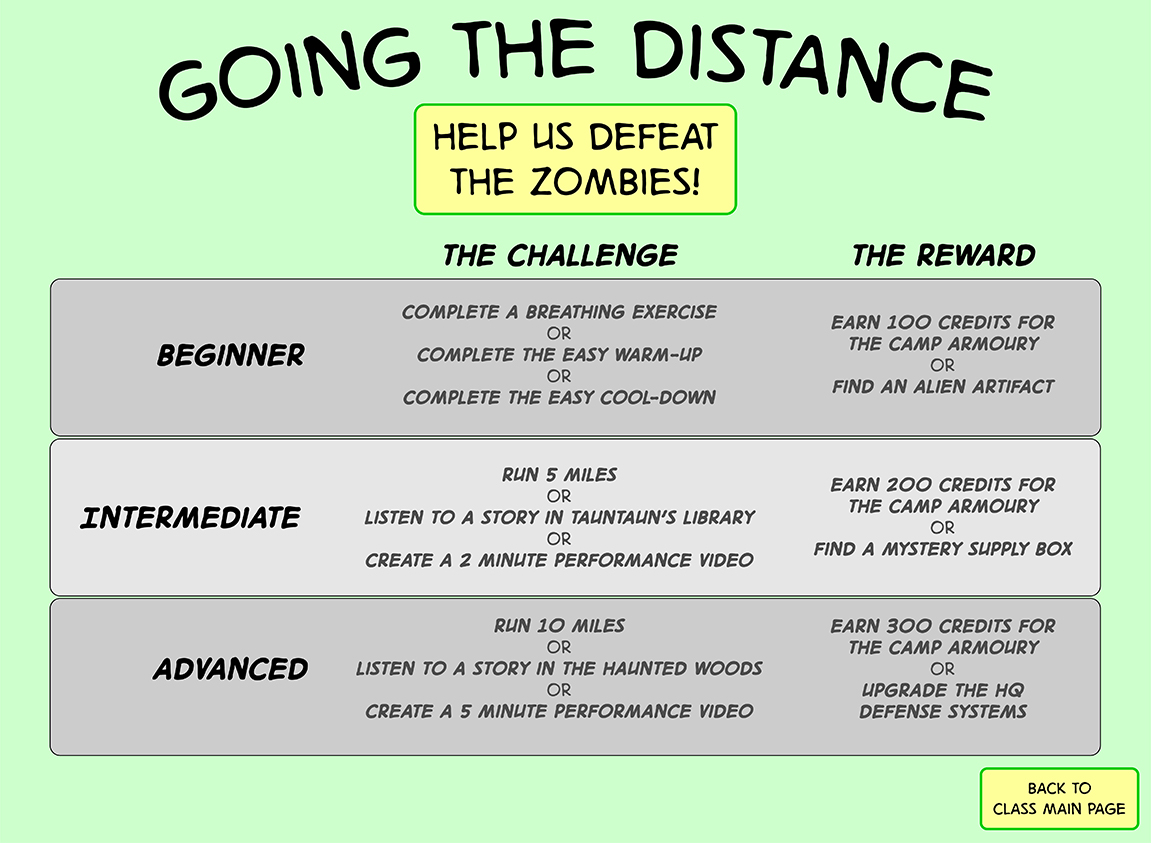
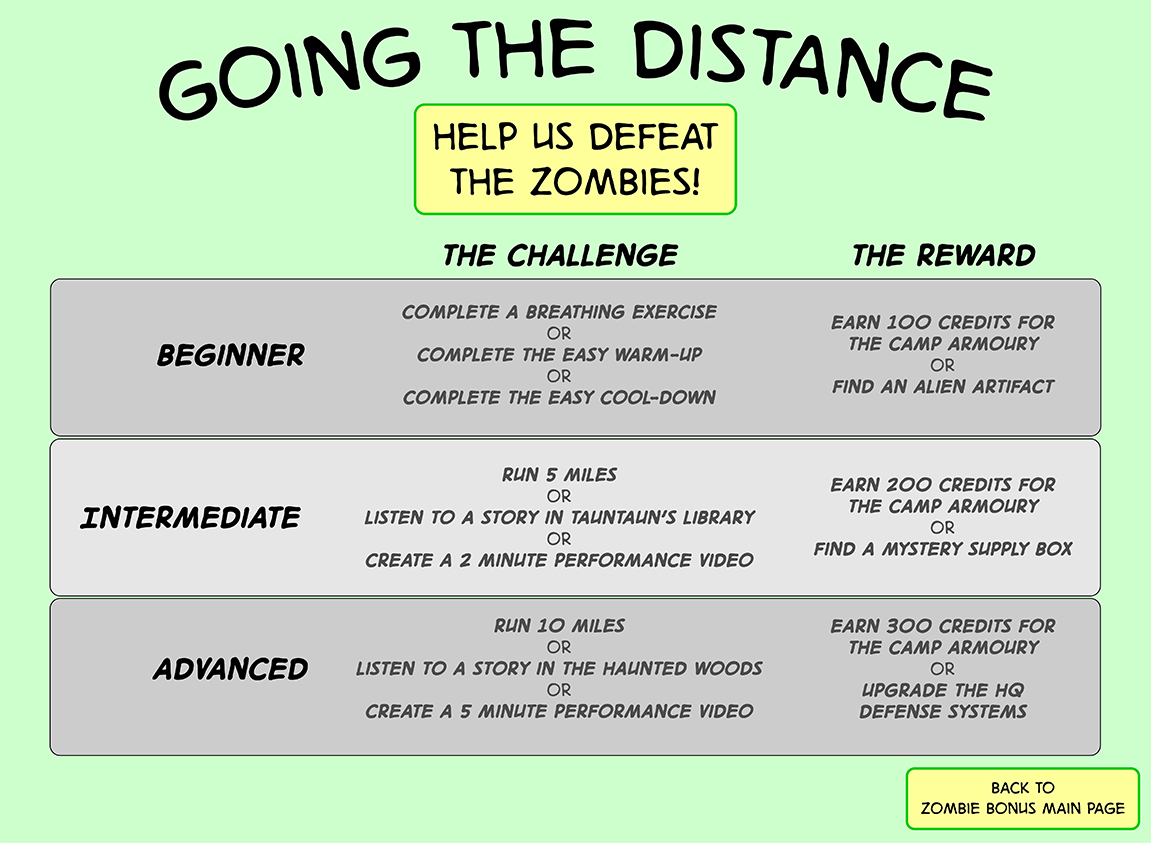
updated link back to zombie bonus page

Changed region(s): [[0.7602, 0.8944, 1.0, 0.987]]

diff --git a/classroom_tauntaun_zombieBonus.html b/classroom_tauntaun_zombieBonus.html
@@ -18,7 +18,7 @@
     <area target="" alt="Easy Cool Down" title="Easy Cool Down" class="lightwindow" params="lightwindow_width=960,lightwindow_height=540" href="https://dl.dropbox.com/s/viukriq3vwe407a/tauntaun_coolDownEasy.mp4" coords="402,386,720,407" shape="rect">
     <area target="" alt="Library" title="Library" href="https://aicl2020.github.io/classroom_tauntaun_library.html" coords="358,505,758,527" shape="rect">
     <area target="" alt="Woods" title="Woods" href="" coords="354,658,767,678" shape="rect">
-    <area target="" alt="Back to Zombies" title="Back to Zombies" href="https://aicl2020.github.io/classroom_tauntaun_zombies.html" coords="976,767,1140,830" shape="rect">
+    <area target="" alt="Back to Zombies" title="Back to Zombies" href="https://aicl2020.github.io/classroom_tauntaun_zombies.html" coords="904,766,1143,832" shape="rect">
 </map>
 </body>
 
